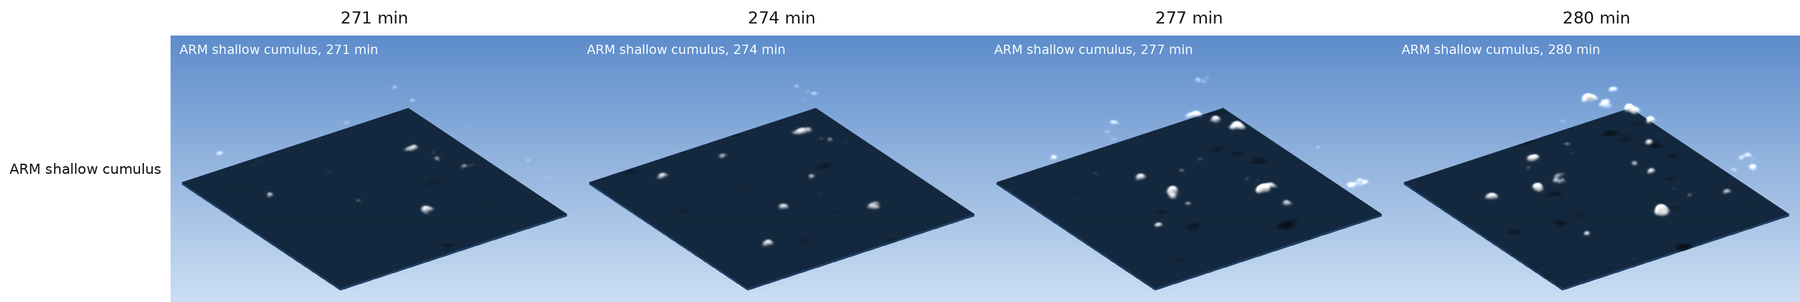
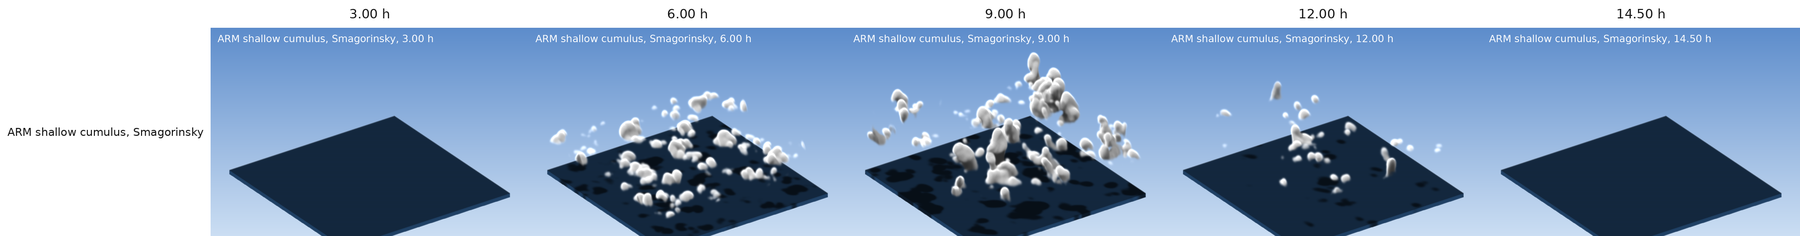
ARM example: stills at 3, 6, 9, 12 and 14.5 h of the full 14.5 h Smagorinsky run (rendered on JASMIN)

diff --git a/README.md b/README.md
@@ -20,8 +20,9 @@ snow and ice below 8 km fills the domain in all three runs; that is the model st
 
 ![RCE closure comparison](docs/example_rce_closures_grid.png)
 
-ARM shallow cumulus, 9.6 km x 9.6 km at 50 m grid spacing, simple cloud scheme. Four records from one multi-record
-output file, with the render top (1.5 km) chosen automatically from the data:
+ARM SGP shallow cumulus, 9.6 km x 9.6 km at 50 m grid spacing, simple cloud scheme, Smagorinsky. Stills at 3, 6, 9,
+12 and 14.5 h of the 14.5 h run (clear sky at 3 h and again by 14.5 h), with the render top (3.5 km) chosen
+automatically from the data:
 
 ![ARM shallow cumulus](docs/example_arm_shallow_cumulus.png)
 
